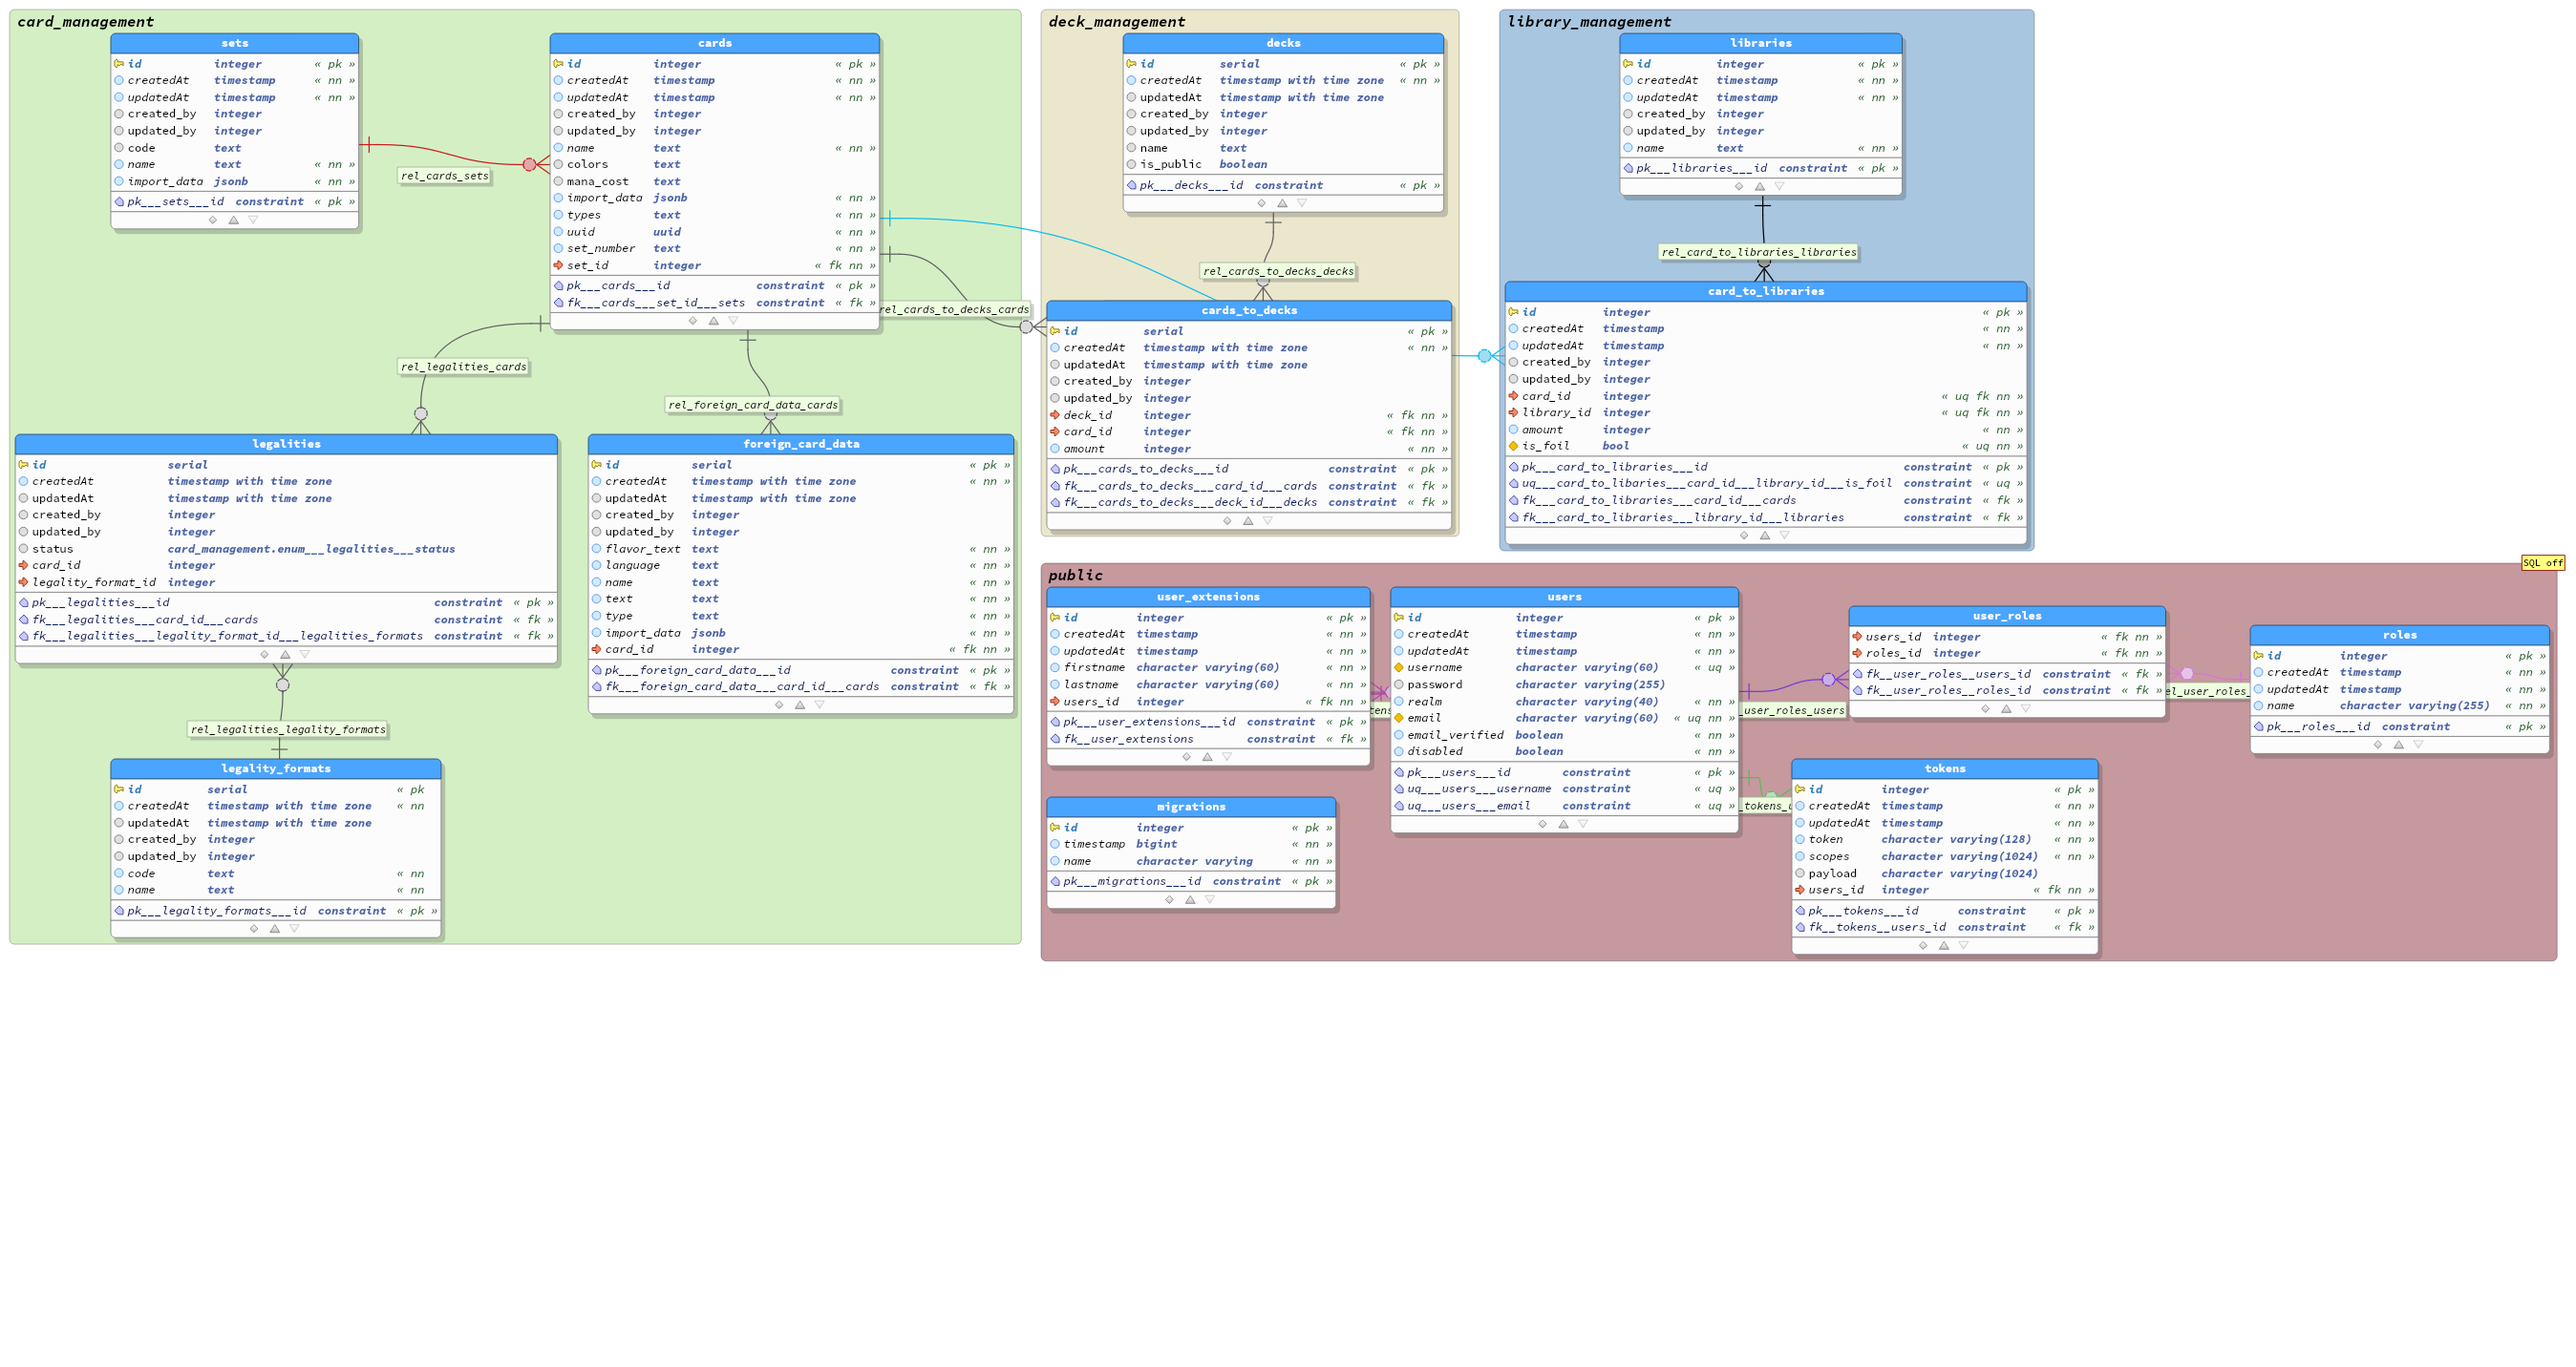
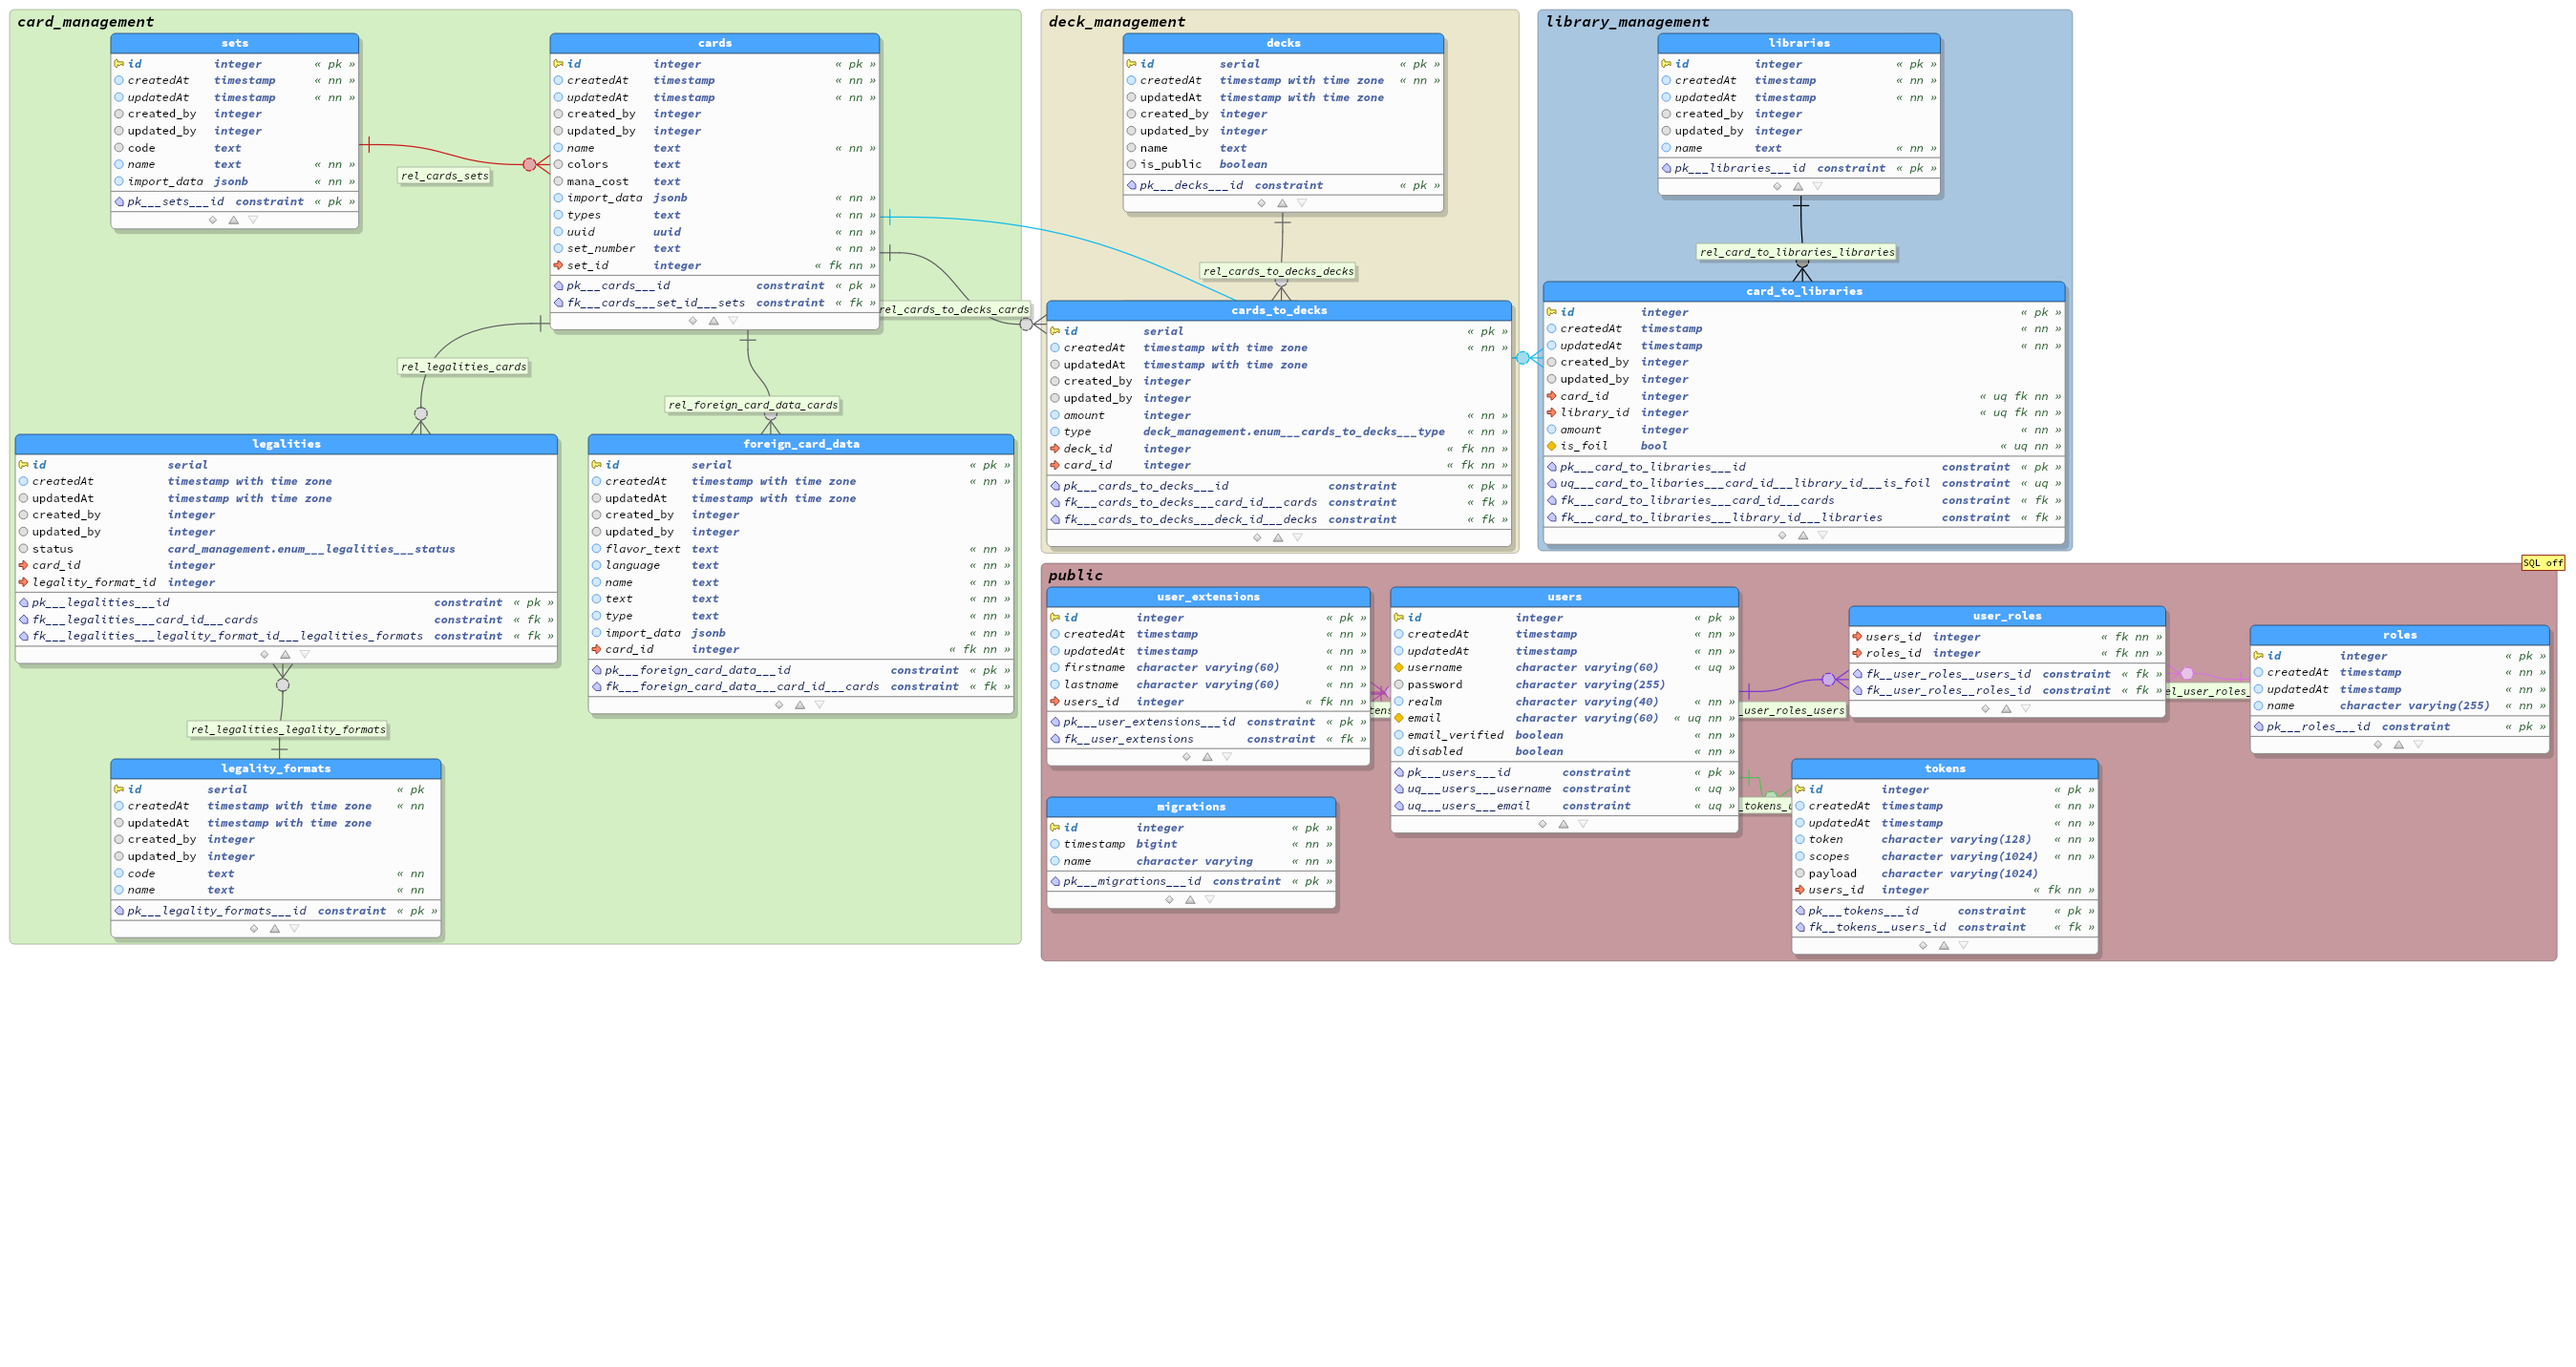
feat: add a distinction between main and sideboard

Changed region(s): [[0.4049, 0.0, 0.8098, 0.4302], [0.4672, 0.2151, 0.4983, 0.2458], [0.3737, 0.2151, 0.4049, 0.2458]]

diff --git a/src/controllers/deck.controller.ts b/src/controllers/deck.controller.ts
@@ -2,6 +2,7 @@
  * @copyright Card Librarian Team 2020
  */
 
+import { Logger } from '@flyacts/backend';
 import {
     Authorized,
     Controller,
@@ -18,6 +19,7 @@ import { validate } from 'class-validator';
 import { Response } from 'express';
 import React = require('react');
 import * as react from 'react-dom/server';
+import { serializeError } from 'serialize-error';
 import { Service } from 'typedi';
 import { Connection } from 'typeorm';
 
@@ -27,6 +29,7 @@ import { DeckEntity } from '../entities/deck.entity';
 import { LegalityFormatEntity } from '../entities/legality-format.entity';
 import { LegalityEntity } from '../entities/legality.entity';
 import { UserExtensionEntity } from '../entities/user-extension.entity';
+import { CardToDeckType } from '../enums/card-to-deck-type.enum';
 import { LegalityStatus } from '../enums/legality-status.enum';
 import { CardProvider } from '../providers/card.provider';
 import { DeckProvider } from '../providers/deck.provider';
@@ -46,6 +49,7 @@ export class DeckController {
         private connection: Connection,
         private deckProvider: DeckProvider,
         private cardProvider: CardProvider,
+        private logger: Logger,
     ) { }
 
     /**
@@ -124,9 +128,12 @@ export class DeckController {
             .getRepository(CardToDeckEntity)
             .createQueryBuilder('c2d')
             .innerJoinAndSelect('c2d.card', 'c2d__c')
-            .innerJoinAndSelect('c2d__c.set', 'c2c__c__s')
+            .innerJoinAndSelect('c2d__c.set', 'c2d__c__s')
             .innerJoinAndSelect('c2d.deck', 'c2d__d')
             .andWhere('c2d__d.id = :deckId', { deckId: deck.id })
+            .orderBy('c2d.type', 'ASC')
+            .addOrderBy('c2d__c__s.name', 'ASC')
+            .addOrderBy('c2d__c.set_number', 'ASC')
             .getMany();
 
         const legalities: LegalityFormatEntity[] = [];
@@ -315,11 +322,13 @@ export class DeckController {
     @Post('/:id([0-9]+)/cards/submit')
     @Authorized()
     @Redirect('/decks')
+    // tslint:disable-next-line
     public async submitCardsToDeck(
         @Param('id') id: number,
         @CurrentUser({ required: true }) currentUser: UserExtensionEntity,
         @FormField('card_id') cardIDValues?: string[],
         @FormField('amount') amountValues?: string[],
+        @FormField('type') typeValues?: string[],
     ) {
         const deck = await this.deckProvider.getDeck(id, currentUser);
 
@@ -327,19 +336,22 @@ export class DeckController {
             throw new NotFoundError();
         }
 
-        const amounts: { [index: string]: { amount: number } } = {};
+        const amounts: { [index: string]: { amount: number, type: string } } = {};
 
         if (
             Array.isArray(cardIDValues) &&
+            Array.isArray(typeValues) &&
             Array.isArray(amountValues)) {
             let index = 0;
             for (const cardID of cardIDValues) {
 
                 const currentAmount = Number.parseInt(amountValues[index]);
+                const currentType = typeValues[index];
 
                 if (!Number.isNaN(currentAmount)) {
                     amounts[cardID] = {
                         amount: currentAmount,
+                        type: currentType,
                     };
                 }
 
@@ -379,7 +391,19 @@ export class DeckController {
                 association = new CardToDeckEntity();
                 association.card = card;
                 association.deck = deck;
+                if (amounts[key].type === 'main') {
+                    association.type = CardToDeckType.Main;
+                } else if (amounts[key].type === 'sideboard') {
+                    association.type = CardToDeckType.SideBoard;
+                }
                 association.amount = amounts[key].amount;
+            }
+
+            const validationErrors = await validate(association);
+
+            if (validationErrors.length > 0) {
+                this.logger.error('Failed to add association', validationErrors.map(serializeError));
+                continue;
             }
 
             await this.connection.manager.save(association);

diff --git a/src/templates/pages/deck-management/deck-detail.page.tsx b/src/templates/pages/deck-management/deck-detail.page.tsx
@@ -59,6 +59,11 @@ const renderDeckDetailPage: React.FC<DeckDetailPageProps> = (props) => {
         (): Array<Column<CardToDeckEntity>> => [
             {
                 // tslint:disable-next-line:no-useless-cast
+                Header: t('deck.attributes.type.label') as string,
+                accessor: 'type',
+            },
+            {
+                // tslint:disable-next-line:no-useless-cast
                 Header: t('card.attributes.set.label') as string,
                 Cell: (cellProps: CellProps<CardToDeckEntity>) => {
                     return <SetComponent
@@ -106,7 +111,9 @@ const renderDeckDetailPage: React.FC<DeckDetailPageProps> = (props) => {
 
             {props.currentUser instanceof UserExtensionEntity ?
                 [
-                    <a href={`/decks/${props.deck.id}/cards/add`} className='button is-small'>Karten hinzufügen</a>,
+                    <a href={`/decks/${props.deck.id}/cards/add`} className='button is-small' accessKey='a'>
+                        K<u>a</u>rten hinzufügen
+                    </a>,
                     <a href={`/decks/${props.deck.id}/edit`} className='button is-small'>Deck bearbeiten</a>,
                 ] :
                 null}

diff --git a/src/entities/card-to-deck.entity.ts b/src/entities/card-to-deck.entity.ts
@@ -4,7 +4,10 @@
 
 import { BaseEntity } from '@flyacts/backend-core-entities';
 import { OwnableEntity } from '@flyacts/backend-user-management';
+import { IsEnum, IsInstance, IsInt } from 'class-validator';
 import { Column, JoinColumn, ManyToOne } from 'typeorm';
+
+import { CardToDeckType } from '../enums/card-to-deck-type.enum';
 
 import { CardEntity } from './card.entity';
 import { DeckEntity } from './deck.entity';
@@ -20,6 +23,7 @@ export class CardToDeckEntity extends BaseEntity {
     @JoinColumn({
         name: 'card_id',
     })
+    @IsInstance(CardEntity)
     public card!: CardEntity;
 
     @ManyToOne(
@@ -28,8 +32,14 @@ export class CardToDeckEntity extends BaseEntity {
     @JoinColumn({
         name: 'deck_id',
     })
+    @IsInstance(DeckEntity)
     public deck!: DeckEntity;
 
     @Column()
+    @IsInt()
     public amount!: number;
+
+    @Column()
+    @IsEnum(CardToDeckType)
+    public type!: CardToDeckType;
 }

diff --git a/src/migrations/1582029913627-add-type-to-card-to-deck.ts b/src/migrations/1582029913627-add-type-to-card-to-deck.ts
@@ -1,0 +1,28 @@
+/*!
+ * @copyright Card Librarian Team 2020
+ */
+
+import * as fs from 'fs-extra';
+import * as path from 'path';
+import { MigrationInterface, QueryRunner } from 'typeorm';
+
+/**
+ * Run migration add_type_to_card_to_decks
+ */
+export class AddTypeToCardToDeck1582029913627 implements MigrationInterface {
+    /**
+     * TypeORMs migration up
+     */
+    public async up(queryRunner: QueryRunner) {
+        const query = await fs.readFile(path.resolve(__dirname, `${__filename.slice(0, __filename.length - 3)}.sql`), 'utf-8');
+        await queryRunner.query(query);
+    }
+
+    /**
+     * TypeORMs migration down
+     */
+    public async down(_queryRunner: QueryRunner) {
+        throw new Error('Not Possible');
+    }
+
+}

diff --git a/src/templates/pages/deck-management/deck-add-cards-preview.page.tsx b/src/templates/pages/deck-management/deck-add-cards-preview.page.tsx
@@ -63,6 +63,16 @@ function generateColumns(t: TFunction) {
         },
         {
             // tslint:disable-next-line:no-useless-cast
+            Header: t('deck.attributes.type.label') as string,
+            Cell: () => {
+                return <select name='type[]'>
+                    <option selected={true} value='main'>Main</option>
+                    <option value='sideboard'>Sideboard</option>
+                </select>;
+            },
+        },
+        {
+            // tslint:disable-next-line:no-useless-cast
             Header: t('deck.attributes.amount.label') as string,
             Cell: (cellProps: CellProps<CardAssignment>) => {
                 return [

diff --git a/src/templates/pages/deck-management/deck-add-cards.page.tsx b/src/templates/pages/deck-management/deck-add-cards.page.tsx
@@ -31,7 +31,7 @@ const renderDeckEditPage: React.FC<DeckEditPageProps> = (props) => {
             <div className='field'>
                 <label className='label'>{t('card.plural')}</label>
                 <div className='control'>
-                    <textarea className='textarea' name='cards' />
+                    <textarea className='textarea' name='cards' autoFocus={true} />
                 </div>
                 <div className='content'>
                     <p>

diff --git a/src/enums/card-to-deck-type.enum.ts b/src/enums/card-to-deck-type.enum.ts
@@ -1,0 +1,8 @@
+/*!
+ * @copyright Card Librarian Team 2020
+ */
+
+export enum CardToDeckType {
+    Main = 'main',
+    SideBoard = 'sideboard',
+}
